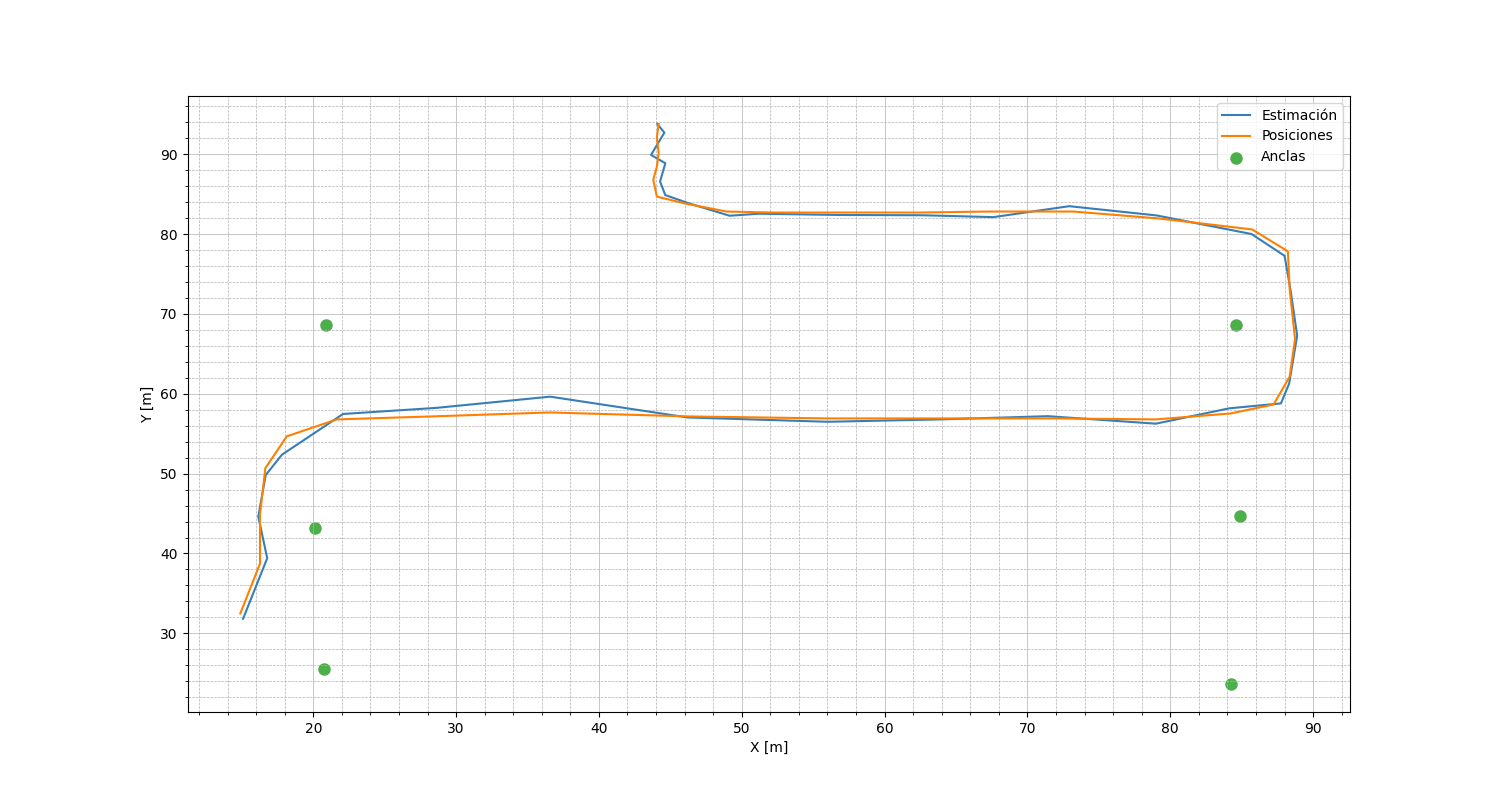
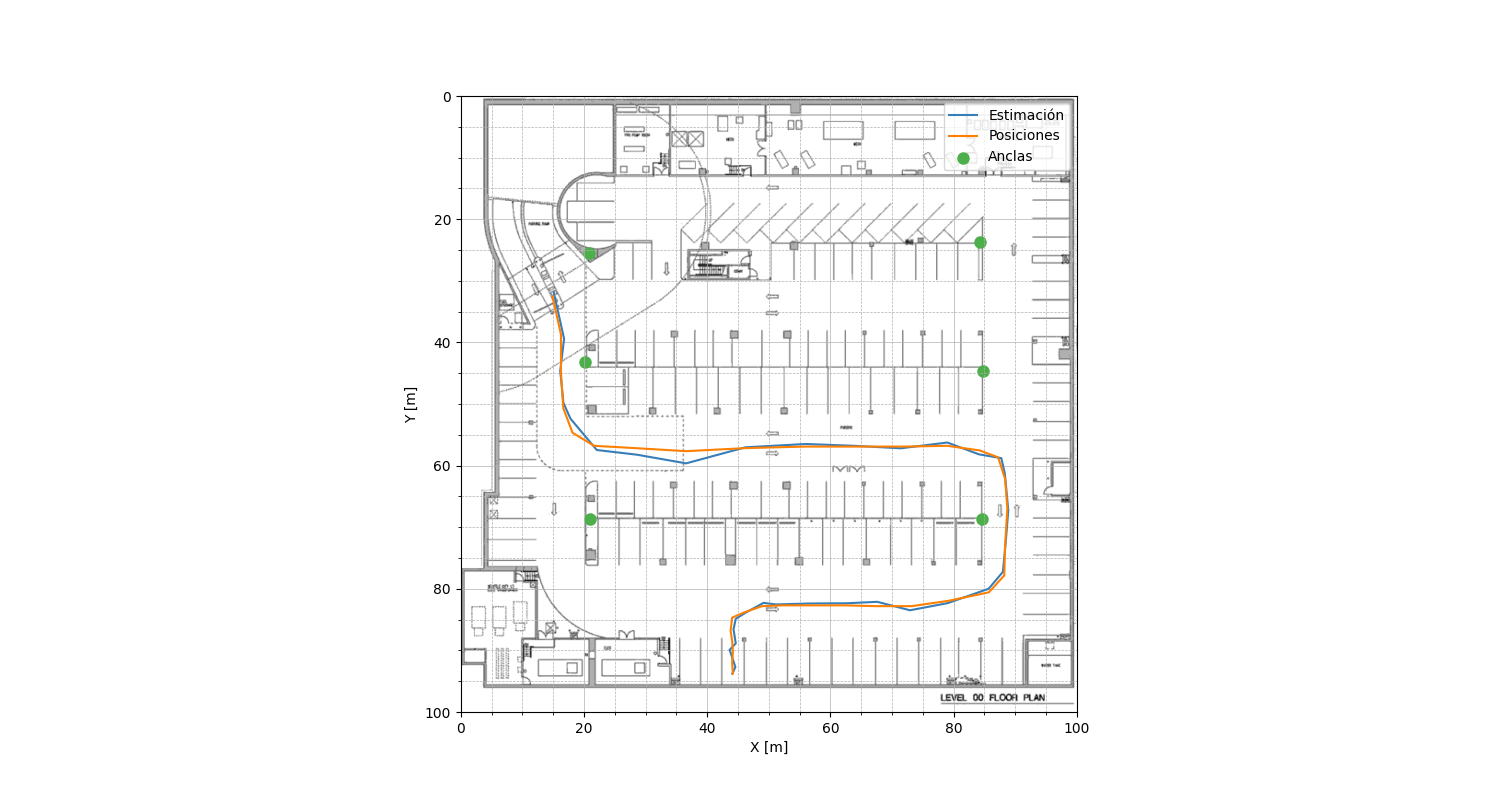
feat: add map to the figure

diff --git a/MARCOS_DOMINGUEZ_trilatracion.py b/MARCOS_DOMINGUEZ_trilatracion.py
@@ -85,6 +85,7 @@ t_device = pd.read_csv('data/tiempo_tx.csv', header=None).values
 t_ancla = pd.read_csv('data/tiempo_rx.csv', header=None).values
 p_ancla = pd.read_csv('data/anclas.csv', header=None).values
 p_reference = pd.read_csv('data/posiciones.csv', header=None).values
+image = np.loadtxt('data/plano.csv', delimiter=',')
 
 # Calculate distances
 d = distance_from_time(t_ancla, t_device)
@@ -107,18 +108,22 @@ error_relativo = 100 * (error_absoluto) / p_reference
 # Save relative errors
 np.savetxt("results/MARCOS_DOMINGUEZ_ErrorRelativo.csv", error_relativo, delimiter=",", fmt='%f')
 
-# Plotting
-plt.figure(figsize=(15, 8))
-plt.plot(P.T[0], P.T[1], label='Estimación', color=CB_color_cycle[0])
-plt.plot(p_reference.T[0], p_reference.T[1], label='Posiciones', color=CB_color_cycle[1])
-plt.scatter(p_ancla.T[0], p_ancla.T[1], linewidth=3, label='Anclas', color=CB_color_cycle[2])
-plt.grid(which='major', linestyle='-', linewidth=0.5)
-plt.grid(which='minor', linestyle='--', linewidth=0.5)
-plt.xlabel("X [m]")
-plt.ylabel("Y [m]")
-plt.minorticks_on()
-plt.legend()
+fig, ax = plt.subplots(figsize=(15, 8))
 
-# Save and show the plot
+ax.imshow(image, cmap='gray', extent=[0, 100, 0, 100], origin='lower')
+ax.invert_yaxis()
+
+ax.plot(P.T[0], P.T[1], label='Estimación', color=CB_color_cycle[0])
+ax.plot(p_reference.T[0], p_reference.T[1], label='Posiciones', color=CB_color_cycle[1])
+ax.scatter(p_ancla.T[0], p_ancla.T[1], linewidth=3, label='Anclas', color=CB_color_cycle[2])
+
+ax.grid(which='major', linestyle='-', linewidth=0.5)
+ax.grid(which='minor', linestyle='--', linewidth=0.5)
+ax.set_xlabel("X [m]")
+ax.set_ylabel("Y [m]")
+ax.minorticks_on()
+ax.legend()
+
+# Guardar y mostrar la figura
 plt.savefig("results/MARCOS_DOMINGUEZ_figura.png")
 plt.show()
